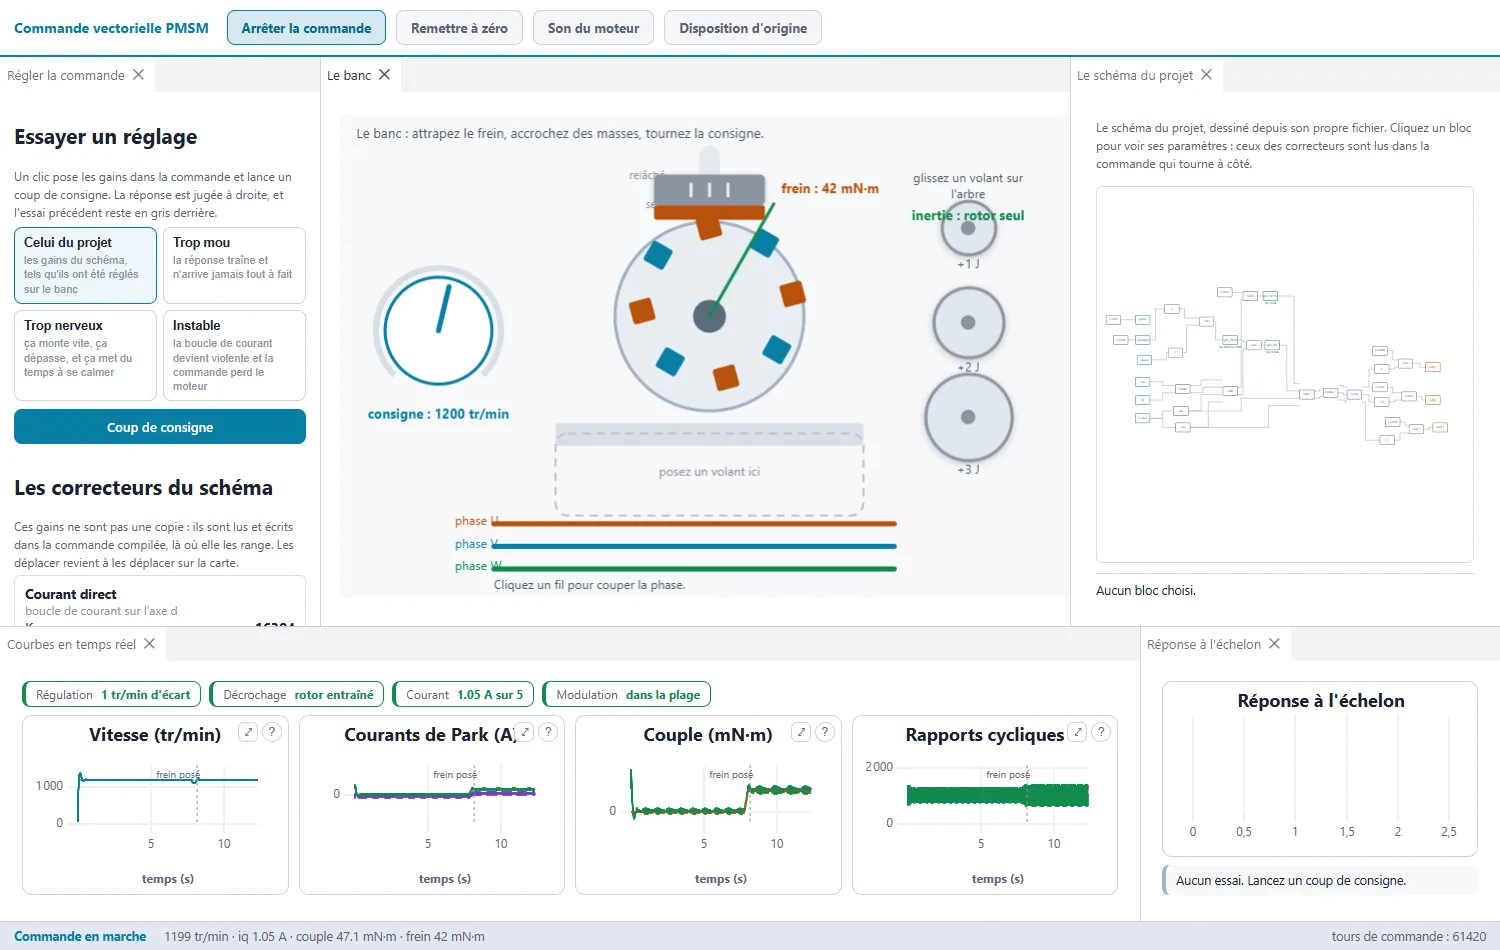
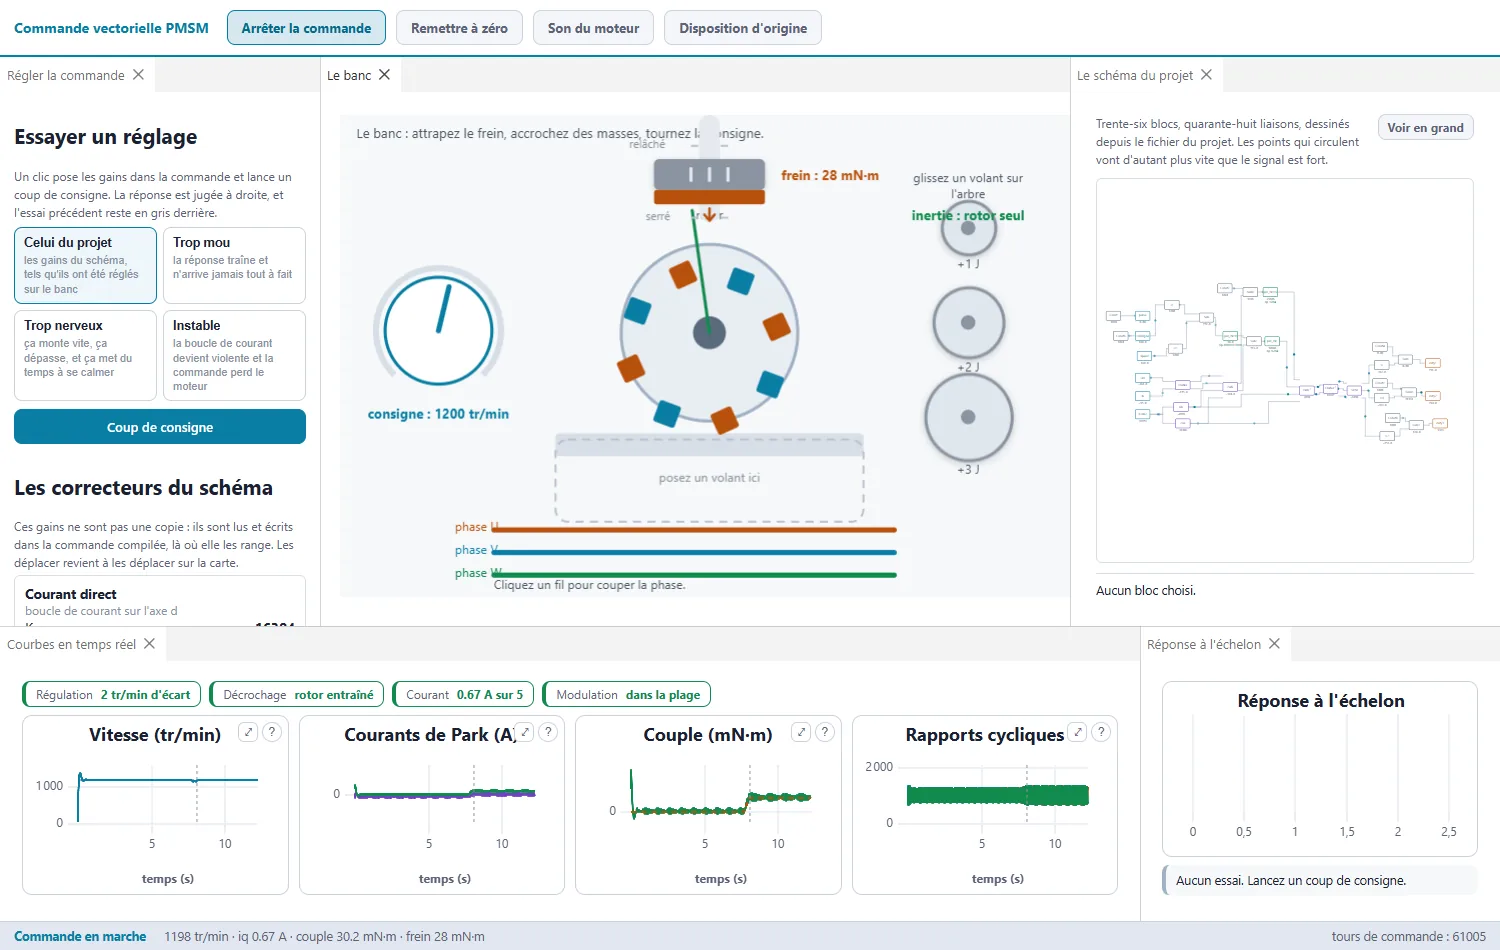
Le schema du projet devient un circuit qu on peut lire
Il s ouvre sur toute la fenetre, la molette zoome, le glisser deplace. Chaque
bloc affiche la valeur qu il vient de produire, lue dans le code compile, et
des points circulent le long des liaisons d autant plus vite que le signal est
fort. L idee vient du simulateur de circuits de Paul Falstad, la reference du
genre depuis vingt ans.

diff --git a/src/projets/commande-moteur-pmsm/fiche.ts b/src/projets/commande-moteur-pmsm/fiche.ts
@@ -2,6 +2,7 @@ import type { Projet } from "../types";
 import alarme from "./alarme.webp";
 import frein from "./frein.webp";
 import regulation from "./regulation.webp";
+import schemaVivant from "./schema.webp";
 
 const fiche: Projet = {
   slug: "commande-moteur-pmsm",
@@ -94,6 +95,13 @@ SocketCanMock::CanFrame frame;   // consigne de vitesse ou de couple`,
       alt: "La commande du projet régule la vitesse, et le schéma-blocs est dessiné depuis son propre fichier",
       legende:
         "Le coup de consigne, celui qu'on fait sur un vrai banc : on demande brutalement une autre vitesse et l'atelier juge la réponse. Ici, dépassement de neuf pour cent, stabilisé en trente-cinq centièmes de seconde, erreur résiduelle d'un tour par minute. À gauche, les trois correcteurs du schéma, dont les gains sont lus et écrits dans la commande compilée. Au-dessus des courbes, l'état vital de l'entraînement.",
+      format: "ecran",
+    },
+    {
+      src: schemaVivant,
+      alt: "Le schéma-blocs du projet, ouvert en grand, avec les valeurs sous chaque bloc",
+      legende:
+        "Le schéma du projet, ouvert sur toute la fenêtre, avec la molette pour zoomer et le glisser pour se déplacer. Ce n'est pas une image refaite : pysimCoder enregistre ses schémas en JSON, et l'atelier lit le fichier du projet. Chaque bloc affiche la valeur qu'il vient de produire, lue dans le code compilé, et des points circulent le long des liaisons d'autant plus vite que le signal est fort, comme dans le simulateur de circuits de Paul Falstad.",
       format: "ecran",
     },
     {
